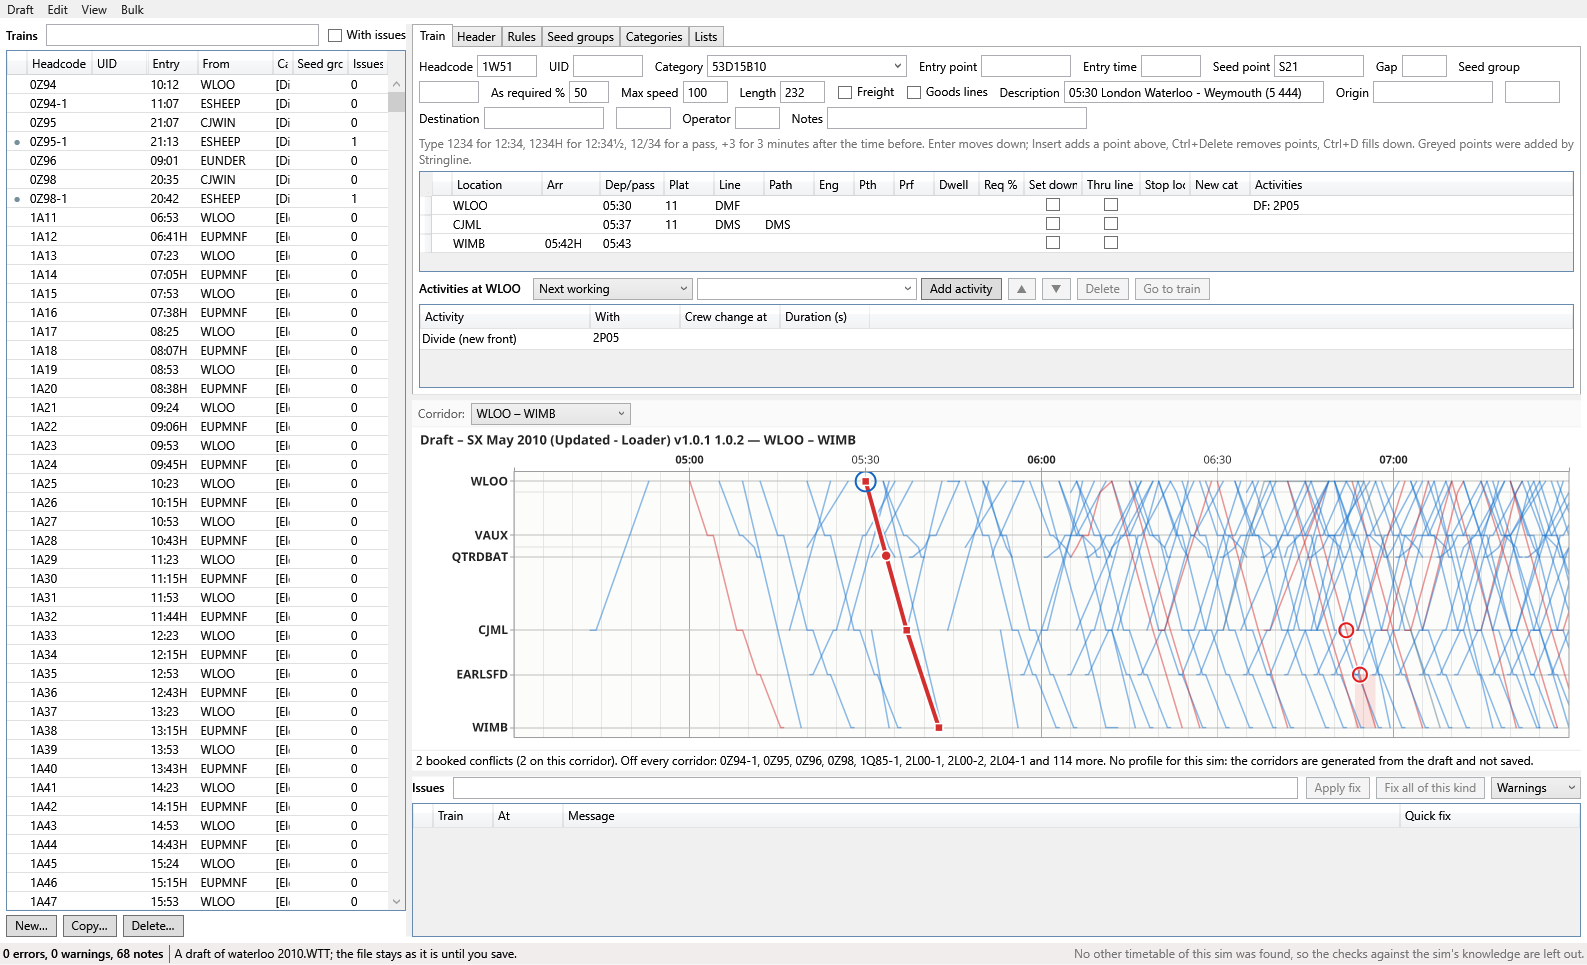
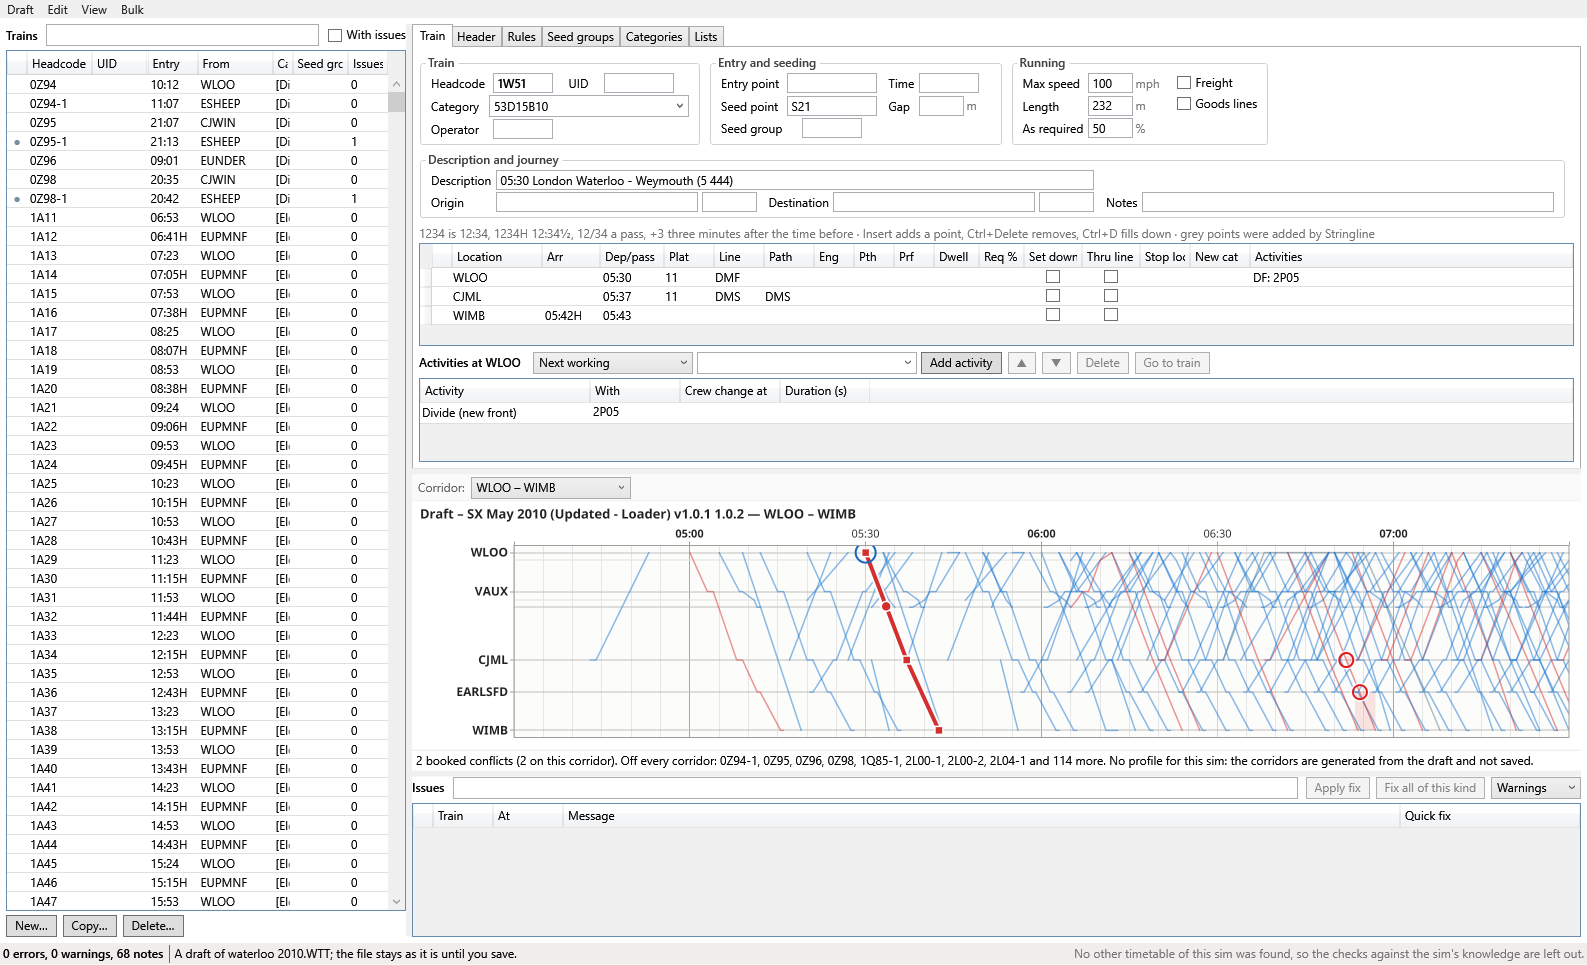
Train details in groups in the timetable editor (#25)
The selected train's details were one wrapping row of some twenty boxes.
They are now four labelled groups with aligned labels and units: Train,
Entry and seeding, Running, and Description and journey. The trip grid's
typing hint is one line (full text in its tooltip) and the Train tab gets
a little more height over the board, so the trip grid keeps its room.
Guide text and picture updated.

Closes #25

diff --git a/src/Stringline.App/Views/EditorWindow.xaml b/src/Stringline.App/Views/EditorWindow.xaml
@@ -41,8 +41,28 @@
     </Style>
     <Style TargetType="TextBox" x:Key="Detail">
       <Setter Property="Width" Value="90" />
-      <Setter Property="Margin" Value="0,2,12,2" />
-      <Setter Property="Padding" Value="2" />
+      <Setter Property="Margin" Value="0,1,12,1" />
+      <Setter Property="Padding" Value="2,1" />
+      <Setter Property="VerticalAlignment" Value="Center" />
+    </Style>
+    <!-- One group of the train's details (#25) -->
+    <Style TargetType="GroupBox" x:Key="DetailGroup">
+      <Setter Property="Margin" Value="0,0,8,4" />
+      <Setter Property="Padding" Value="6,2,6,0" />
+      <Setter Property="BorderBrush" Value="#D0D0D0" />
+      <Setter Property="HeaderTemplate">
+        <Setter.Value>
+          <DataTemplate>
+            <TextBlock Text="{Binding}" FontWeight="SemiBold" Foreground="#424242" />
+          </DataTemplate>
+        </Setter.Value>
+      </Setter>
+    </Style>
+    <!-- The unit after a box: mph, m, % -->
+    <Style TargetType="TextBlock" x:Key="Unit">
+      <Setter Property="Foreground" Value="#757575" />
+      <Setter Property="VerticalAlignment" Value="Center" />
+      <Setter Property="Margin" Value="-9,0,12,0" />
     </Style>
     <!-- The issue mark at the start of a row: a dot in the worst issue's colour, the issues on hover -->
     <DataTemplate x:Key="IssueMark">
@@ -156,9 +176,9 @@
         <ColumnDefinition Width="*" MinWidth="320" />
       </Grid.ColumnDefinitions>
       <Grid.RowDefinitions>
-        <RowDefinition Height="*" MinHeight="180" />
+        <RowDefinition Height="3*" MinHeight="180" />
         <RowDefinition Height="6" />
-        <RowDefinition Height="*" MinHeight="140" />
+        <RowDefinition Height="2*" MinHeight="140" />
         <RowDefinition Height="6" />
         <RowDefinition Height="160" MinHeight="80" />
       </Grid.RowDefinitions>
@@ -201,49 +221,132 @@
             <TextBlock Text="Choose a train in the list, or make one with New." Style="{StaticResource Hint}" Margin="12"
                        Visibility="{Binding Train, Converter={StaticResource NotNull}, ConverterParameter=invert}" />
             <DockPanel DataContext="{Binding Train}" Visibility="{Binding Converter={StaticResource NotNull}}" Margin="4">
-              <WrapPanel x:Name="DetailsPanel" DockPanel.Dock="Top" ToolTip="{Binding IssueTip}">
-                <Label Content="_Headcode" Target="{Binding ElementName=HeadcodeBox}" />
-                <TextBox x:Name="HeadcodeBox" Style="{StaticResource Detail}" Width="60" Text="{Binding Headcode}"
-                         ToolTip="Renumbering keeps the activities and rules that name this train" />
-                <Label Content="UID" />
-                <TextBox Style="{StaticResource Detail}" Width="70" Text="{Binding Uid}" />
-                <Label Content="Category" />
-                <ComboBox Width="200" Margin="0,2,12,2" IsEditable="True" ItemsSource="{Binding CategoryChoices}"
-                          TextSearch.TextPath="Code" Text="{Binding Category}" DisplayMemberPath="Label" />
-                <Label Content="Entry point" />
-                <TextBox Style="{StaticResource Detail}" Text="{Binding EntryPoint}" />
-                <Label Content="Entry time" />
-                <TextBox Style="{StaticResource Detail}" Width="60" Text="{Binding DepartTime}" ToolTip="The time the train enters, or is seeded" />
-                <Label Content="Seed point" />
-                <TextBox Style="{StaticResource Detail}" Text="{Binding SeedPoint}" />
-                <Label Content="Gap" />
-                <TextBox Style="{StaticResource Detail}" Width="45" Text="{Binding SeedingGap}" ToolTip="Seeding gap, metres" />
-                <Label Content="Seed group" />
-                <TextBox Style="{StaticResource Detail}" Width="60" Text="{Binding SeedGroup}" />
-                <Label Content="As required %" />
-                <TextBox Style="{StaticResource Detail}" Width="40" Text="{Binding AsRequiredPercent}" />
-                <Label Content="Max speed" />
-                <TextBox Style="{StaticResource Detail}" Width="45" Text="{Binding MaxSpeed}" ToolTip="mph; empty for the category's" />
-                <Label Content="Length" />
-                <TextBox Style="{StaticResource Detail}" Width="45" Text="{Binding TrainLength}" ToolTip="metres; empty for the category's" />
-                <CheckBox Content="Freight" VerticalAlignment="Center" Margin="0,2,12,2" IsChecked="{Binding IsFreight}" />
-                <CheckBox Content="Goods lines" VerticalAlignment="Center" Margin="0,2,12,2" IsChecked="{Binding CanUseGoodsLines}" />
-                <Label Content="_Description" Target="{Binding ElementName=DescriptionBox}" />
-                <TextBox x:Name="DescriptionBox" Style="{StaticResource Detail}" Width="260" Text="{Binding Description}"
-                         ToolTip="Free text, or $template to use the header's template" />
-                <TextBlock VerticalAlignment="Center" Margin="0,2,12,2" Style="{StaticResource Hint}"
-                           Text="{Binding DescriptionPreview, StringFormat=Shows as: {0}}" Visibility="{Binding UsesTemplate, Converter={StaticResource BoolToVisibility}}" />
-                <Label Content="Origin" />
-                <TextBox Style="{StaticResource Detail}" Width="120" Text="{Binding OriginName}" />
-                <TextBox Style="{StaticResource Detail}" Width="55" Text="{Binding OriginTime}" ToolTip="Origin time" />
-                <Label Content="Destination" />
-                <TextBox Style="{StaticResource Detail}" Width="120" Text="{Binding DestinationName}" />
-                <TextBox Style="{StaticResource Detail}" Width="55" Text="{Binding DestinationTime}" ToolTip="Destination time" />
-                <Label Content="Operator" />
-                <TextBox Style="{StaticResource Detail}" Width="45" Text="{Binding OperatorCode}" />
-                <Label Content="Notes" />
-                <TextBox Style="{StaticResource Detail}" Width="260" Text="{Binding Notes}" />
-              </WrapPanel>
+              <!-- The train's details in four groups (#25): the cards wrap on a narrow window; the description group
+                   takes the full width under them -->
+              <StackPanel x:Name="DetailsPanel" DockPanel.Dock="Top" ToolTip="{Binding IssueTip}">
+                <WrapPanel>
+                  <GroupBox Header="Train" Style="{StaticResource DetailGroup}">
+                    <Grid>
+                      <Grid.ColumnDefinitions>
+                        <ColumnDefinition Width="Auto" />
+                        <ColumnDefinition Width="Auto" />
+                        <ColumnDefinition Width="Auto" />
+                        <ColumnDefinition Width="Auto" />
+                      </Grid.ColumnDefinitions>
+                      <Grid.RowDefinitions>
+                        <RowDefinition Height="Auto" />
+                        <RowDefinition Height="Auto" />
+                        <RowDefinition Height="Auto" />
+                      </Grid.RowDefinitions>
+                      <Label Content="_Headcode" Target="{Binding ElementName=HeadcodeBox}" />
+                      <TextBox x:Name="HeadcodeBox" Grid.Column="1" Style="{StaticResource Detail}" Width="60" Text="{Binding Headcode}"
+                               FontWeight="SemiBold" ToolTip="Renumbering keeps the activities and rules that name this train" />
+                      <Label Grid.Column="2" Content="UID" />
+                      <TextBox Grid.Column="3" Style="{StaticResource Detail}" Width="70" Text="{Binding Uid}" />
+                      <Label Grid.Row="1" Content="Category" />
+                      <ComboBox Grid.Row="1" Grid.Column="1" Grid.ColumnSpan="3" Width="200" Margin="0,1,0,1" HorizontalAlignment="Left"
+                                IsEditable="True" ItemsSource="{Binding CategoryChoices}"
+                                TextSearch.TextPath="Code" Text="{Binding Category}" DisplayMemberPath="Label" />
+                      <Label Grid.Row="2" Content="Operator" />
+                      <TextBox Grid.Row="2" Grid.Column="1" Style="{StaticResource Detail}" Width="60" Text="{Binding OperatorCode}" />
+                    </Grid>
+                  </GroupBox>
+                  <GroupBox Header="Entry and seeding" Style="{StaticResource DetailGroup}">
+                    <Grid>
+                      <Grid.ColumnDefinitions>
+                        <ColumnDefinition Width="Auto" />
+                        <ColumnDefinition Width="Auto" />
+                        <ColumnDefinition Width="Auto" />
+                        <ColumnDefinition Width="Auto" />
+                      </Grid.ColumnDefinitions>
+                      <Grid.RowDefinitions>
+                        <RowDefinition Height="Auto" />
+                        <RowDefinition Height="Auto" />
+                        <RowDefinition Height="Auto" />
+                      </Grid.RowDefinitions>
+                      <Label Content="Entry point" />
+                      <TextBox Grid.Column="1" Style="{StaticResource Detail}" Text="{Binding EntryPoint}" />
+                      <Label Grid.Column="2" Content="Time" />
+                      <TextBox Grid.Column="3" Style="{StaticResource Detail}" Width="60" Text="{Binding DepartTime}" ToolTip="The time the train enters, or is seeded" />
+                      <Label Grid.Row="1" Content="Seed point" />
+                      <TextBox Grid.Row="1" Grid.Column="1" Style="{StaticResource Detail}" Text="{Binding SeedPoint}" />
+                      <Label Grid.Row="1" Grid.Column="2" Content="Gap" />
+                      <StackPanel Grid.Row="1" Grid.Column="3" Orientation="Horizontal">
+                        <TextBox Style="{StaticResource Detail}" Width="45" Text="{Binding SeedingGap}" ToolTip="Seeding gap, metres" />
+                        <TextBlock Style="{StaticResource Unit}" Text="m" />
+                      </StackPanel>
+                      <Label Grid.Row="2" Content="Seed group" />
+                      <TextBox Grid.Row="2" Grid.Column="1" Style="{StaticResource Detail}" Width="60" Text="{Binding SeedGroup}"
+                               ToolTip="The ID of a seed group on the Seed groups tab; empty to seed at the timetable's start" />
+                    </Grid>
+                  </GroupBox>
+                  <GroupBox Header="Running" Style="{StaticResource DetailGroup}">
+                    <Grid>
+                      <Grid.ColumnDefinitions>
+                        <ColumnDefinition Width="Auto" />
+                        <ColumnDefinition Width="Auto" />
+                        <ColumnDefinition Width="Auto" />
+                      </Grid.ColumnDefinitions>
+                      <Grid.RowDefinitions>
+                        <RowDefinition Height="Auto" />
+                        <RowDefinition Height="Auto" />
+                        <RowDefinition Height="Auto" />
+                      </Grid.RowDefinitions>
+                      <Label Content="Max speed" />
+                      <StackPanel Grid.Column="1" Orientation="Horizontal">
+                        <TextBox Style="{StaticResource Detail}" Width="45" Text="{Binding MaxSpeed}" ToolTip="mph; empty for the category's" />
+                        <TextBlock Style="{StaticResource Unit}" Text="mph" />
+                      </StackPanel>
+                      <Label Grid.Row="1" Content="Length" />
+                      <StackPanel Grid.Row="1" Grid.Column="1" Orientation="Horizontal">
+                        <TextBox Style="{StaticResource Detail}" Width="45" Text="{Binding TrainLength}" ToolTip="metres; empty for the category's" />
+                        <TextBlock Style="{StaticResource Unit}" Text="m" />
+                      </StackPanel>
+                      <Label Grid.Row="2" Content="As required" />
+                      <StackPanel Grid.Row="2" Grid.Column="1" Orientation="Horizontal">
+                        <TextBox Style="{StaticResource Detail}" Width="45" Text="{Binding AsRequiredPercent}" ToolTip="The chance the train runs, per cent" />
+                        <TextBlock Style="{StaticResource Unit}" Text="%" />
+                      </StackPanel>
+                      <StackPanel Grid.Column="2" Grid.RowSpan="2" Margin="4,0,0,0">
+                        <CheckBox Content="Freight" Margin="0,3" IsChecked="{Binding IsFreight}" />
+                        <CheckBox Content="Goods lines" Margin="0,3" IsChecked="{Binding CanUseGoodsLines}" ToolTip="The train may use goods lines" />
+                      </StackPanel>
+                    </Grid>
+                  </GroupBox>
+                </WrapPanel>
+                <GroupBox Header="Description and journey" Style="{StaticResource DetailGroup}">
+                  <Grid>
+                    <Grid.ColumnDefinitions>
+                      <ColumnDefinition Width="Auto" />
+                      <ColumnDefinition Width="*" MinWidth="80" MaxWidth="220" />
+                      <ColumnDefinition Width="Auto" />
+                      <ColumnDefinition Width="Auto" />
+                      <ColumnDefinition Width="*" MinWidth="80" MaxWidth="220" />
+                      <ColumnDefinition Width="Auto" />
+                      <ColumnDefinition Width="Auto" />
+                      <ColumnDefinition Width="2*" MinWidth="80" />
+                    </Grid.ColumnDefinitions>
+                    <Grid.RowDefinitions>
+                      <RowDefinition Height="Auto" />
+                      <RowDefinition Height="Auto" />
+                    </Grid.RowDefinitions>
+                    <Label Content="_Description" Target="{Binding ElementName=DescriptionBox}" />
+                    <TextBox x:Name="DescriptionBox" Grid.Column="1" Grid.ColumnSpan="5" Style="{StaticResource Detail}" Width="Auto"
+                             Text="{Binding Description}" ToolTip="Free text, or $template to use the header's template" />
+                    <TextBlock Grid.Column="6" Grid.ColumnSpan="2" VerticalAlignment="Center" Style="{StaticResource Hint}" TextWrapping="NoWrap" TextTrimming="CharacterEllipsis"
+                               Text="{Binding DescriptionPreview, StringFormat=Shows as: {0}}" ToolTip="{Binding DescriptionPreview}"
+                               Visibility="{Binding UsesTemplate, Converter={StaticResource BoolToVisibility}}" />
+                    <Label Grid.Row="1" Content="Origin" />
+                    <TextBox Grid.Row="1" Grid.Column="1" Style="{StaticResource Detail}" Width="Auto" Margin="0,1,4,1" Text="{Binding OriginName}" />
+                    <TextBox Grid.Row="1" Grid.Column="2" Style="{StaticResource Detail}" Width="55" Text="{Binding OriginTime}" ToolTip="Origin time" />
+                    <Label Grid.Row="1" Grid.Column="3" Content="Destination" />
+                    <TextBox Grid.Row="1" Grid.Column="4" Style="{StaticResource Detail}" Width="Auto" Margin="0,1,4,1" Text="{Binding DestinationName}" />
+                    <TextBox Grid.Row="1" Grid.Column="5" Style="{StaticResource Detail}" Width="55" Text="{Binding DestinationTime}" ToolTip="Destination time" />
+                    <Label Grid.Row="1" Grid.Column="6" Content="Notes" />
+                    <TextBox Grid.Row="1" Grid.Column="7" Style="{StaticResource Detail}" Width="Auto" Margin="0,1,0,1" Text="{Binding Notes}" />
+                  </Grid>
+                </GroupBox>
+              </StackPanel>
               <TextBlock DockPanel.Dock="Top" Margin="4,2" Text="{Binding FormedBy}" FontStyle="Italic"
                          Visibility="{Binding FormedBy, Converter={StaticResource NotNull}}" />
               <!-- Activities of the point the grid is on (S45) -->
@@ -281,8 +384,9 @@
                   </DataGrid.Columns>
                 </DataGrid>
               </DockPanel>
-              <TextBlock DockPanel.Dock="Top" Style="{StaticResource Hint}" Margin="0,4"
-                         Text="Type 1234 for 12:34, 1234H for 12:34½, 12/34 for a pass, +3 for 3 minutes after the time before. Enter moves down; Insert adds a point above, Ctrl+Delete removes points, Ctrl+D fills down. Greyed points were added by Stringline." />
+              <TextBlock DockPanel.Dock="Top" Style="{StaticResource Hint}" Margin="0,2" TextWrapping="NoWrap" TextTrimming="CharacterEllipsis"
+                         Text="1234 is 12:34, 1234H 12:34½, 12/34 a pass, +3 three minutes after the time before · Insert adds a point, Ctrl+Delete removes, Ctrl+D fills down · grey points were added by Stringline"
+                         ToolTip="Type 1234 for 12:34, 1234H for 12:34½, 12/34 for a pass, +3 for 3 minutes after the time before. Enter moves down; Insert adds a point above, Ctrl+Delete removes points, Ctrl+D fills down. Greyed points were added by Stringline." />
               <DataGrid x:Name="TripGrid" ItemsSource="{Binding Trips}" SelectionUnit="CellOrRowHeader" SelectionMode="Extended"
                         CanUserSortColumns="False" HeadersVisibility="All" RowHeaderWidth="12"
                         PreviewKeyDown="OnTripGridKeyDown" PreparingCellForEdit="OnTripCellPreparing" CellEditEnding="OnTripCellEditEnding"

diff --git a/docs/progress.md b/docs/progress.md
@@ -1190,20 +1190,7 @@ So GR-9 (< 33 ms while panning) holds with a wide margin, even at 1 000 trains. 
 - **The V0.1.0 release has no files.** The one Release run was started by hand without a tag, so the zip and setup only went to that run's workflow artifacts, which GitHub deletes after the retention period (90 days by default). Anyone who installed 0.1.0 got it from there.
 - **Not seen on the hosted runner yet.** The script passed on Fred's PC; the first tagged release will show whether the Restart Manager behaves the same on `windows-latest`.
 
-### 2026-10-28 — Train details in groups (#25)
-
-### Done
-- **The timetable editor's train details** (`EditorWindow.xaml`) are in four labelled groups instead of one wrapping row of boxes: *Train* (headcode, UID, category, operator), *Entry and seeding* (entry point and time, seed point and gap, seed group), *Running* (max speed, length, as required %, freight, goods lines) and *Description and journey* (description and what a `$template` shows as, origin and destination with their times, notes). Labels and boxes line up in each group; units (mph, m, %) follow their boxes. The first three groups wrap on a narrow window; the last takes the full width.
-- The trip grid's typing hint is one line (the full text is its tooltip), and the Train tab gets 3/5 of the height above the board (was half), so the trip grid keeps its room.
-- **Guide:** the Train tab paragraph names the groups; `timetable-editor.png` retaken.
-
-### Decisions
-- Grouped cards, always shown (Fred chose them over collapsible groups or sub-tabs).
-
-### Next
-- 👤 Try it on a sim you edit; reopen #25 if it still feels cramped.
-
-## Questions for Fred
+### Questions for Fred
 - 21. **Release 0.1.1?** It carries the save-on-close fix and the downgrade check. Pushing tag `v0.1.1` builds it, tests the update, and attaches the files. Should V0.1.0 also get its files, with Actions ▸ Release ▸ Run workflow and tag `V0.1.0`? That build would not have this change.
 
 ## Questions for Fred
@@ -2598,6 +2585,19 @@ From Fred's three issues on the Moss Vale sim (Moss Vale 2017-11-01). Out of the
 
 ### Next
 - #24 closed. 👤 Try the picker on a sim you play; reopen #24 or raise a new issue for anything missing.
+
+## 2026-10-28 — Train details in groups (#25)
+
+### Done
+- **The timetable editor's train details** (`EditorWindow.xaml`) are in four labelled groups instead of one wrapping row of boxes: *Train* (headcode, UID, category, operator), *Entry and seeding* (entry point and time, seed point and gap, seed group), *Running* (max speed, length, as required %, freight, goods lines) and *Description and journey* (description and what a `$template` shows as, origin and destination with their times, notes). Labels and boxes line up in each group; units (mph, m, %) follow their boxes. The first three groups wrap on a narrow window; the last takes the full width.
+- The trip grid's typing hint is one line (the full text is its tooltip), and the Train tab gets 3/5 of the height above the board (was half), so the trip grid keeps its room.
+- **Guide:** the Train tab paragraph names the groups; `timetable-editor.png` retaken.
+
+### Decisions
+- Grouped cards, always shown (Fred chose them over collapsible groups or sub-tabs).
+
+### Next
+- 👤 Try it on a sim you edit; reopen #25 if it still feels cramped.
 
 ## Questions for Fred
 See `00-brainstorm-and-decisions.md` §5. New from S1:

diff --git a/docs/user-guide/timetable-editor.md b/docs/user-guide/timetable-editor.md
@@ -26,7 +26,7 @@ The list on the left has every train in the draft. Click a column's heading to s
 
 ## The train and its timing points
 
-The **Train** tab shows the selected train's details at the top. Change a box and press Enter, or move on, to make the change. A new headcode renumbers the train and the activities and rules that name it. A description of `$template` shows what SimSig will show, from the header's template.
+The **Train** tab shows the selected train's details at the top, in four groups: **Train** (headcode, UID, category and operator), **Entry and seeding** (where and when it enters, or its seed point, gap and seed group), **Running** (maximum speed, length, the chance an as-required train runs, freight and goods lines) and **Description and journey** (the description, origin, destination and notes). Change a box and press Enter, or move on, to make the change. A new headcode renumbers the train and the activities and rules that name it. A description of `$template` shows what SimSig will show, from the header's template.
 
 Below is the **trip grid**, one row for each timing point:
 
